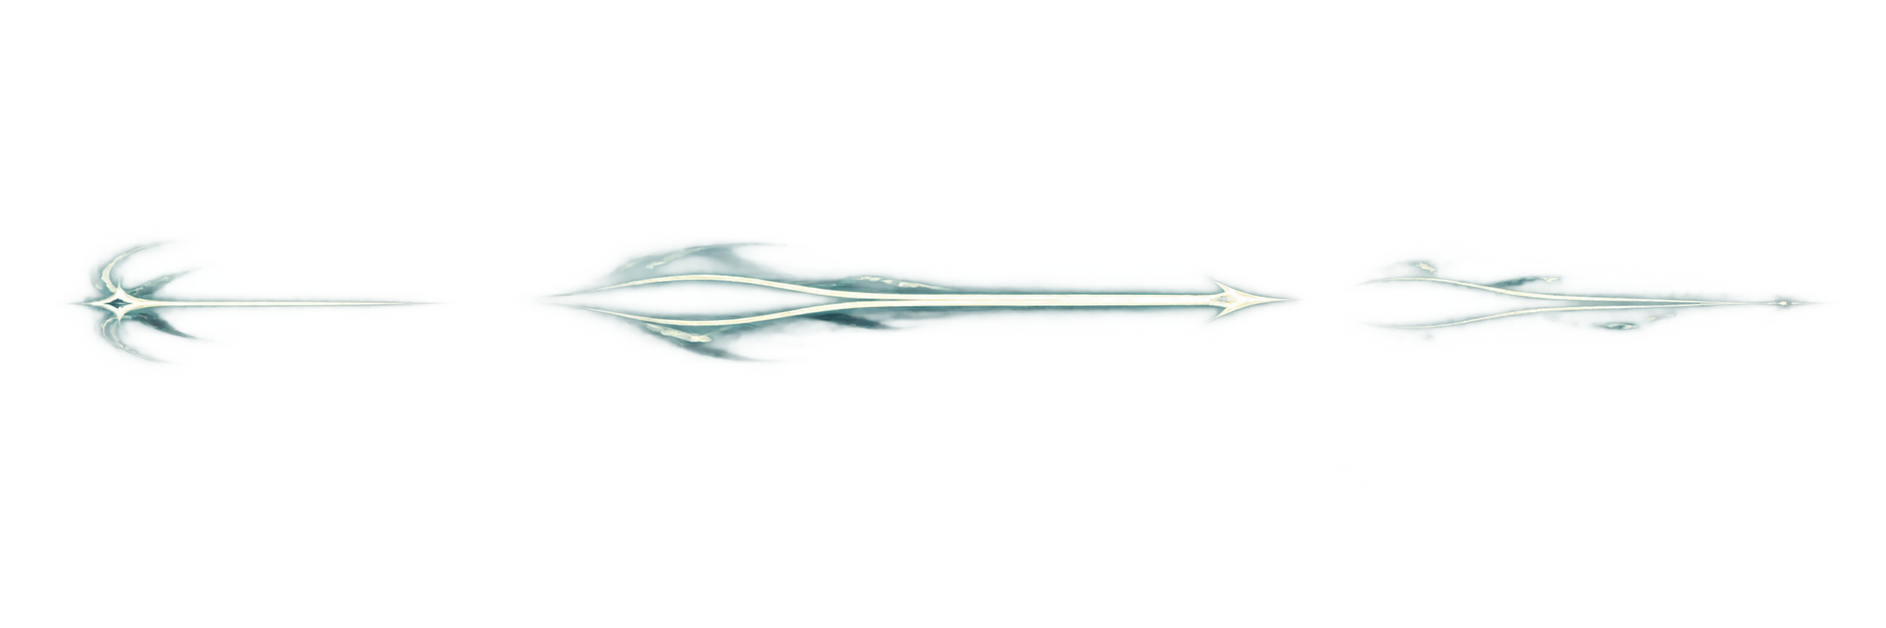
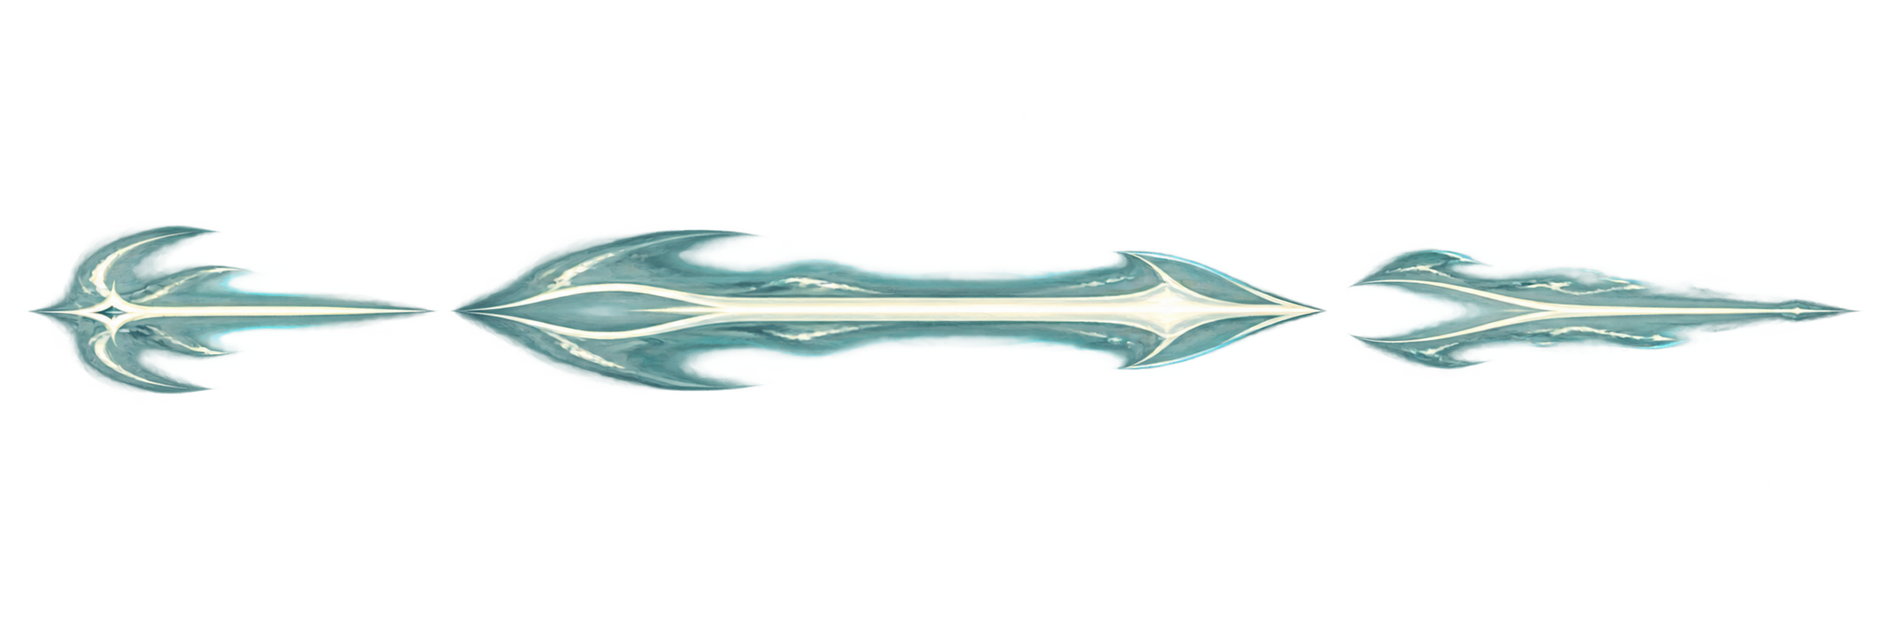
art(vfx): thicken Pierce spearhead and shaft in concept storyboards

Changed region(s): [[0.0, 0.3646, 0.7095, 0.6381], [0.7095, 0.395, 0.9871, 0.6077]]

diff --git a/docs/combat-presentation/blade-storyboards/boards.js b/docs/combat-presentation/blade-storyboards/boards.js
@@ -1,2 +1,2 @@
 /* global window */
-window.bladeStoryboards = [{"skill": "attack", "thai": "ฟันเฉียงสั้น", "identity": "คมกระชับหนึ่งครั้ง ปลายเรียวและเว้นกลางโปร่ง", "width": 84, "height": 76, "axial": false, "source": "../../../incoming/ART-VFX-BLADE-STORYBOARD-001/source/attack.png", "background": "../../../incoming/ART-VFX-BLADE-STORYBOARD-001/reference/attack-390.png", "sourceSize": [2172, 724], "alphaRange": [0, 255], "frames": [[226, 221, 297, 222], [783, 110, 595, 500], [1592, 234, 433, 317]], "anchors": {"source": {"x": 145.85999999999999, "y": 232.72, "size": 111}, "target": {"x": 244.14000000000001, "y": 373.32, "size": 166}, "recipient": "f1"}}, {"skill": "finisher", "thai": "ฟันกดปิดงาน", "identity": "ตะขอคมยาวกดลง เน้นปลายคมโดยไม่ใช้ X-slash", "width": 88, "height": 110, "axial": false, "source": "../../../incoming/ART-VFX-BLADE-STORYBOARD-001/source/finisher.png", "background": "../../../incoming/ART-VFX-BLADE-STORYBOARD-001/reference/finisher-390.png", "sourceSize": [2172, 724], "alphaRange": [0, 255], "frames": [[325, 47, 184, 641], [817, 35, 616, 655], [1664, 49, 422, 623]], "anchors": {"source": {"x": 145.85999999999999, "y": 232.72, "size": 111}, "target": {"x": 244.14000000000001, "y": 373.32, "size": 166}, "recipient": "f1"}}, {"skill": "lunge", "thai": "พุ่งตัด", "identity": "ปลายพุ่งกับร่องลมเปิดด้านหลัง ต่างจากเข็มตรงของ Pierce", "width": 116, "height": 62, "axial": true, "source": "../../../incoming/ART-VFX-BLADE-STORYBOARD-001/source/lunge.png", "background": "../../../incoming/ART-VFX-BLADE-STORYBOARD-001/reference/lunge-390.png", "sourceSize": [2172, 724], "alphaRange": [0, 255], "frames": [[39, 278, 542, 110], [662, 170, 852, 356], [1523, 226, 615, 182]], "anchors": {"source": {"x": 145.85999999999999, "y": 232.72, "size": 111}, "target": {"x": 244.14000000000001, "y": 373.32, "size": 166}, "recipient": "f1"}}, {"skill": "sweep", "thai": "ฟันกวาด", "identity": "เสี้ยวแบนทอดกว้างตามแนวนอน อ่านเป็นการกวาดครั้งเดียว", "width": 142, "height": 54, "axial": false, "source": "../../../incoming/ART-VFX-BLADE-STORYBOARD-001/source/sweep.png", "background": "../../../incoming/ART-VFX-BLADE-STORYBOARD-001/reference/sweep-390.png", "sourceSize": [2172, 724], "alphaRange": [0, 253], "frames": [[54, 312, 497, 111], [606, 253, 958, 252], [1622, 296, 520, 139]], "anchors": {"source": {"x": 145.85999999999999, "y": 232.72, "size": 111}, "target": {"x": 244.14000000000001, "y": 373.32, "size": 166}, "recipient": "f1"}}, {"skill": "backstab", "thai": "ลอบแทงย้อน", "identity": "ปลายสั้นเข้าจากด้านตรงข้าม พร้อมหางโค้งเยื้องเล็กน้อย", "width": 76, "height": 46, "axial": true, "source": "../../../incoming/ART-VFX-BLADE-STORYBOARD-001/source/backstab.png", "background": "../../../incoming/ART-VFX-BLADE-STORYBOARD-001/reference/backstab-390.png", "sourceSize": [2172, 724], "alphaRange": [0, 255], "frames": [[152, 267, 345, 223], [690, 142, 755, 456], [1525, 232, 526, 345]], "anchors": {"source": {"x": 145.85999999999999, "y": 232.72, "size": 111}, "target": {"x": 244.14000000000001, "y": 373.32, "size": 166}, "recipient": "f1"}}, {"skill": "ambush", "thai": "ฟันเสยจู่โจม", "identity": "คมรูปตะขอเปิดพุ่งขึ้นจากล่าง เว้นช่องให้เห็นตัวเป้าหมาย", "width": 88, "height": 104, "axial": false, "source": "../../../incoming/ART-VFX-BLADE-STORYBOARD-001/source/ambush.png", "background": "../../../incoming/ART-VFX-BLADE-STORYBOARD-001/reference/ambush-390.png", "sourceSize": [2172, 724], "alphaRange": [0, 255], "frames": [[125, 261, 470, 386], [818, 29, 637, 659], [1692, 94, 313, 572]], "anchors": {"source": {"x": 145.85999999999999, "y": 232.72, "size": 111}, "target": {"x": 244.14000000000001, "y": 373.32, "size": 166}, "recipient": "f1"}}, {"skill": "disarm", "thai": "เกี่ยวปัดอาวุธ", "identity": "ตะขอเล็กหมุนเกี่ยวออก ไม่มีภาพอาวุธแตกหรือสถานะที่ไม่ได้เกิด", "width": 62, "height": 72, "axial": false, "source": "../../../incoming/ART-VFX-BLADE-STORYBOARD-001/source/disarm.png", "background": "../../../incoming/ART-VFX-BLADE-STORYBOARD-001/reference/disarm-390.png", "sourceSize": [2172, 724], "alphaRange": [0, 254], "frames": [[229, 242, 421, 287], [825, 86, 552, 511], [1656, 287, 419, 172]], "anchors": {"source": {"x": 145.85999999999999, "y": 232.72, "size": 111}, "target": {"x": 244.14000000000001, "y": 373.32, "size": 166}, "recipient": "f1"}}, {"skill": "parry", "thai": "ตั้งท่า → ฟันสวน", "identity": "กรอบรับเล็กที่ต้นทาง แล้วคมคืนกลับเมื่อมี counter จริงเท่านั้น", "width": 88, "height": 74, "axial": false, "source": "../../../incoming/ART-VFX-BLADE-STORYBOARD-001/source/parry.png", "background": "../../../incoming/ART-VFX-BLADE-STORYBOARD-001/reference/parry-390.png", "sourceSize": [2172, 724], "alphaRange": [0, 254], "frames": [[289, 133, 269, 436], [725, 92, 752, 485], [1619, 193, 420, 311]], "anchors": {"source": {"x": 145.85999999999999, "y": 232.72, "size": 111}, "target": {"x": 340.53000000000003, "y": 399.72, "size": 111}, "recipient": "b1"}}, {"skill": "pierce", "thai": "แทงทะลุแนว", "identity": "เข็มยาวตรงบางที่สุด มีเพียงเส้นนำทางร่วมแกนเดียว", "width": 130, "height": 32, "axial": true, "source": "../../../incoming/ART-VFX-BLADE-STORYBOARD-001/source/pierce.png", "background": "../../../incoming/ART-VFX-BLADE-STORYBOARD-001/reference/pierce-390.png", "sourceSize": [2172, 724], "alphaRange": [0, 252], "frames": [[80, 279, 419, 139], [631, 279, 866, 138], [1571, 299, 522, 93]], "anchors": {"source": {"x": 145.85999999999999, "y": 232.72, "size": 111}, "target": {"x": 244.14000000000001, "y": 373.32, "size": 166}, "recipient": "f1"}}, {"skill": "halt", "thai": "แทงหยุดแน่น", "identity": "ปลายสั้นฐานแน่นและริ้วเบนกลับ ไม่ใช้สัญลักษณ์บล็อก", "width": 74, "height": 62, "axial": true, "source": "../../../incoming/ART-VFX-BLADE-STORYBOARD-001/source/halt.png", "background": "../../../incoming/ART-VFX-BLADE-STORYBOARD-001/reference/halt-390.png", "sourceSize": [2172, 724], "alphaRange": [0, 253], "frames": [[200, 268, 327, 194], [777, 129, 613, 447], [1553, 262, 441, 226]], "anchors": {"source": {"x": 145.85999999999999, "y": 232.72, "size": 111}, "target": {"x": 244.14000000000001, "y": 373.32, "size": 166}, "recipient": "f1"}}];
+window.bladeStoryboards = [{"skill": "attack", "thai": "ฟันเฉียงสั้น", "identity": "คมกระชับหนึ่งครั้ง ปลายเรียวและเว้นกลางโปร่ง", "width": 84, "height": 76, "axial": false, "crossScale": 1, "source": "../../../incoming/ART-VFX-BLADE-STORYBOARD-001/source/attack.png", "background": "../../../incoming/ART-VFX-BLADE-STORYBOARD-001/reference/attack-390.png", "sourceSize": [2172, 724], "alphaRange": [0, 255], "frames": [[226, 221, 297, 222], [783, 110, 595, 500], [1592, 234, 433, 317]], "anchors": {"source": {"x": 145.85999999999999, "y": 232.72, "size": 111}, "target": {"x": 244.14000000000001, "y": 373.32, "size": 166}, "recipient": "f1"}}, {"skill": "finisher", "thai": "ฟันกดปิดงาน", "identity": "ตะขอคมยาวกดลง เน้นปลายคมโดยไม่ใช้ X-slash", "width": 88, "height": 110, "axial": false, "crossScale": 1, "source": "../../../incoming/ART-VFX-BLADE-STORYBOARD-001/source/finisher.png", "background": "../../../incoming/ART-VFX-BLADE-STORYBOARD-001/reference/finisher-390.png", "sourceSize": [2172, 724], "alphaRange": [0, 255], "frames": [[325, 47, 184, 641], [817, 35, 616, 655], [1664, 49, 422, 623]], "anchors": {"source": {"x": 145.85999999999999, "y": 232.72, "size": 111}, "target": {"x": 244.14000000000001, "y": 373.32, "size": 166}, "recipient": "f1"}}, {"skill": "lunge", "thai": "พุ่งตัด", "identity": "ปลายพุ่งกับร่องลมเปิดด้านหลัง ต่างจากแกนตรงและหัวหอกของ Pierce", "width": 116, "height": 62, "axial": true, "crossScale": 1, "source": "../../../incoming/ART-VFX-BLADE-STORYBOARD-001/source/lunge.png", "background": "../../../incoming/ART-VFX-BLADE-STORYBOARD-001/reference/lunge-390.png", "sourceSize": [2172, 724], "alphaRange": [0, 255], "frames": [[39, 278, 542, 110], [662, 170, 852, 356], [1523, 226, 615, 182]], "anchors": {"source": {"x": 145.85999999999999, "y": 232.72, "size": 111}, "target": {"x": 244.14000000000001, "y": 373.32, "size": 166}, "recipient": "f1"}}, {"skill": "sweep", "thai": "ฟันกวาด", "identity": "เสี้ยวแบนทอดกว้างตามแนวนอน อ่านเป็นการกวาดครั้งเดียว", "width": 142, "height": 54, "axial": false, "crossScale": 1, "source": "../../../incoming/ART-VFX-BLADE-STORYBOARD-001/source/sweep.png", "background": "../../../incoming/ART-VFX-BLADE-STORYBOARD-001/reference/sweep-390.png", "sourceSize": [2172, 724], "alphaRange": [0, 253], "frames": [[54, 312, 497, 111], [606, 253, 958, 252], [1622, 296, 520, 139]], "anchors": {"source": {"x": 145.85999999999999, "y": 232.72, "size": 111}, "target": {"x": 244.14000000000001, "y": 373.32, "size": 166}, "recipient": "f1"}}, {"skill": "backstab", "thai": "ลอบแทงย้อน", "identity": "ปลายสั้นเข้าจากด้านตรงข้าม พร้อมหางโค้งเยื้องเล็กน้อย", "width": 76, "height": 46, "axial": true, "crossScale": 1, "source": "../../../incoming/ART-VFX-BLADE-STORYBOARD-001/source/backstab.png", "background": "../../../incoming/ART-VFX-BLADE-STORYBOARD-001/reference/backstab-390.png", "sourceSize": [2172, 724], "alphaRange": [0, 255], "frames": [[152, 267, 345, 223], [690, 142, 755, 456], [1525, 232, 526, 345]], "anchors": {"source": {"x": 145.85999999999999, "y": 232.72, "size": 111}, "target": {"x": 244.14000000000001, "y": 373.32, "size": 166}, "recipient": "f1"}}, {"skill": "ambush", "thai": "ฟันเสยจู่โจม", "identity": "คมรูปตะขอเปิดพุ่งขึ้นจากล่าง เว้นช่องให้เห็นตัวเป้าหมาย", "width": 88, "height": 104, "axial": false, "crossScale": 1, "source": "../../../incoming/ART-VFX-BLADE-STORYBOARD-001/source/ambush.png", "background": "../../../incoming/ART-VFX-BLADE-STORYBOARD-001/reference/ambush-390.png", "sourceSize": [2172, 724], "alphaRange": [0, 255], "frames": [[125, 261, 470, 386], [818, 29, 637, 659], [1692, 94, 313, 572]], "anchors": {"source": {"x": 145.85999999999999, "y": 232.72, "size": 111}, "target": {"x": 244.14000000000001, "y": 373.32, "size": 166}, "recipient": "f1"}}, {"skill": "disarm", "thai": "เกี่ยวปัดอาวุธ", "identity": "ตะขอเล็กหมุนเกี่ยวออก ไม่มีภาพอาวุธแตกหรือสถานะที่ไม่ได้เกิด", "width": 62, "height": 72, "axial": false, "crossScale": 1, "source": "../../../incoming/ART-VFX-BLADE-STORYBOARD-001/source/disarm.png", "background": "../../../incoming/ART-VFX-BLADE-STORYBOARD-001/reference/disarm-390.png", "sourceSize": [2172, 724], "alphaRange": [0, 254], "frames": [[229, 242, 421, 287], [825, 86, 552, 511], [1656, 287, 419, 172]], "anchors": {"source": {"x": 145.85999999999999, "y": 232.72, "size": 111}, "target": {"x": 244.14000000000001, "y": 373.32, "size": 166}, "recipient": "f1"}}, {"skill": "parry", "thai": "ตั้งท่า → ฟันสวน", "identity": "กรอบรับเล็กที่ต้นทาง แล้วคมคืนกลับเมื่อมี counter จริงเท่านั้น", "width": 88, "height": 74, "axial": false, "crossScale": 1, "source": "../../../incoming/ART-VFX-BLADE-STORYBOARD-001/source/parry.png", "background": "../../../incoming/ART-VFX-BLADE-STORYBOARD-001/reference/parry-390.png", "sourceSize": [2172, 724], "alphaRange": [0, 254], "frames": [[289, 133, 269, 436], [725, 92, 752, 485], [1619, 193, 420, 311]], "anchors": {"source": {"x": 145.85999999999999, "y": 232.72, "size": 111}, "target": {"x": 340.53000000000003, "y": 399.72, "size": 111}, "recipient": "b1"}}, {"skill": "pierce", "thai": "แทงทะลุแนว", "identity": "หัวหอกใบยาวมีบ่าเด่น แกนแทงหนา อ่านเป็นหอกที่พุ่งตามแกนเดียว", "width": 130, "height": 58, "axial": true, "crossScale": 1.4, "source": "../../../incoming/ART-VFX-BLADE-STORYBOARD-001/source/pierce.png", "background": "../../../incoming/ART-VFX-BLADE-STORYBOARD-001/reference/pierce-390.png", "sourceSize": [2172, 724], "alphaRange": [0, 254], "frames": [[33, 260, 506, 194], [539, 264, 989, 187], [1554, 286, 588, 140]], "anchors": {"source": {"x": 145.85999999999999, "y": 232.72, "size": 111}, "target": {"x": 244.14000000000001, "y": 373.32, "size": 166}, "recipient": "f1"}}, {"skill": "halt", "thai": "แทงหยุดแน่น", "identity": "ปลายสั้นฐานแน่นและริ้วเบนกลับ ไม่ใช้สัญลักษณ์บล็อก", "width": 74, "height": 62, "axial": true, "crossScale": 1, "source": "../../../incoming/ART-VFX-BLADE-STORYBOARD-001/source/halt.png", "background": "../../../incoming/ART-VFX-BLADE-STORYBOARD-001/reference/halt-390.png", "sourceSize": [2172, 724], "alphaRange": [0, 253], "frames": [[200, 268, 327, 194], [777, 129, 613, 447], [1553, 262, 441, 226]], "anchors": {"source": {"x": 145.85999999999999, "y": 232.72, "size": 111}, "target": {"x": 244.14000000000001, "y": 373.32, "size": 166}, "recipient": "f1"}}];

diff --git a/docs/combat-presentation/blade-storyboards/viewer.js b/docs/combat-presentation/blade-storyboards/viewer.js
@@ -5,7 +5,7 @@ const images = new Map();
 const loadImage = src => new Promise((resolve, reject) => {
   const img = new Image(); img.onload = () => resolve(img); img.onerror = () => reject(new Error(`Missing image: ${src}`)); img.src = src;
 });
-let selected = records[0], visible = true;
+let selected = records.find(record => record.skill === window.location.hash.slice(1)) ?? records[0], visible = true;
 const weight = document.querySelector('#weight');
 const canvases = [...document.querySelectorAll('canvas')];
 function draw() {
@@ -21,11 +21,12 @@ function draw() {
     if (!visible) return;
     const [sx,sy,sw,sh] = selected.frames[phase];
     const multiplier = [0.36,1,0.76][phase];
-    const fit = Math.min(selected.width/sw, selected.height/sh) * multiplier;
+    const crossScale = selected.crossScale ?? 1;
+    const fit = Math.min(selected.width/sw, selected.height/(sh*crossScale)) * multiplier;
     const at = phase === 0 ? source : target;
     ctx.save(); ctx.translate(at.x, at.y); ctx.rotate(angle);
     ctx.globalAlpha = [.65,.88,.32][phase] * Number(weight.value)/100;
-    ctx.drawImage(images.get(selected.source), sx,sy,sw,sh, -sw*fit/2,-sh*fit/2,sw*fit,sh*fit);
+    ctx.drawImage(images.get(selected.source), sx,sy,sw,sh, -sw*fit/2,-sh*fit*crossScale/2,sw*fit,sh*fit*crossScale);
     ctx.restore();
   });
   document.documentElement.dataset.skill = selected.skill;
@@ -34,7 +35,7 @@ async function start() {
   await Promise.all([...new Set(records.flatMap(r => [r.source,r.background]))].map(async src => images.set(src, await loadImage(src))));
   for (const record of records) {
     const button = document.createElement('button'); button.textContent = record.skill; button.dataset.skill = record.skill;
-    button.addEventListener('click', () => { selected=record; draw(); }); document.querySelector('nav').append(button);
+    button.addEventListener('click', () => { selected=record; window.history.replaceState(null,'',`#${record.skill}`); draw(); }); document.querySelector('nav').append(button);
   }
   weight.addEventListener('input',draw);
   document.querySelector('#toggle').addEventListener('click', event => { visible=!visible; event.target.textContent=visible?'ดูสนามเปล่า':'แสดงแบบ VFX'; draw(); });

diff --git a/tests/browser/blade-storyboards.spec.ts b/tests/browser/blade-storyboards.spec.ts
@@ -26,13 +26,13 @@ test('capture immutable 390px game references and resolved anchors', async ({ br
   }
   writeFileSync(path.join(out, 'anchors.json'), JSON.stringify(anchors, null, 2) + '\n');
 });
-test('render ten three-phase concept boards at native 390px', async ({ page }) => {
+test('render three-phase concept boards at native 390px', async ({ page }) => {
   test.skip(process.env.FX_STORYBOARDS !== 'render');
   const errors: string[] = []; page.on('pageerror', e => errors.push(e.message));
   await page.setViewportSize({ width: 1234, height: 1060 });
   await page.goto('docs/combat-presentation/blade-storyboards/index.html');
   await page.waitForFunction(() => document.documentElement.dataset.ready === 'true');
-  for (const skill of skills) {
+  for (const skill of skills.filter(s => !process.env.FX_STORYBOARD_SKILL || process.env.FX_STORYBOARD_SKILL === s)) {
     await page.locator(`button[data-skill="${skill}"]`).click();
     await page.waitForFunction(s => document.documentElement.dataset.skill === s, skill);
     const board = page.locator('#board');

diff --git a/docs/combat-presentation/blade-storyboards/build_manifest.py b/docs/combat-presentation/blade-storyboards/build_manifest.py
@@ -10,13 +10,13 @@ anchors = json.loads((art / 'reference/anchors.json').read_text())
 specs = [
     ('ฟันเฉียงสั้น', 'คมกระชับหนึ่งครั้ง ปลายเรียวและเว้นกลางโปร่ง', 84, 76, False),
     ('ฟันกดปิดงาน', 'ตะขอคมยาวกดลง เน้นปลายคมโดยไม่ใช้ X-slash', 88, 110, False),
-    ('พุ่งตัด', 'ปลายพุ่งกับร่องลมเปิดด้านหลัง ต่างจากเข็มตรงของ Pierce', 116, 62, True),
+    ('พุ่งตัด', 'ปลายพุ่งกับร่องลมเปิดด้านหลัง ต่างจากแกนตรงและหัวหอกของ Pierce', 116, 62, True),
     ('ฟันกวาด', 'เสี้ยวแบนทอดกว้างตามแนวนอน อ่านเป็นการกวาดครั้งเดียว', 142, 54, False),
     ('ลอบแทงย้อน', 'ปลายสั้นเข้าจากด้านตรงข้าม พร้อมหางโค้งเยื้องเล็กน้อย', 76, 46, True),
     ('ฟันเสยจู่โจม', 'คมรูปตะขอเปิดพุ่งขึ้นจากล่าง เว้นช่องให้เห็นตัวเป้าหมาย', 88, 104, False),
     ('เกี่ยวปัดอาวุธ', 'ตะขอเล็กหมุนเกี่ยวออก ไม่มีภาพอาวุธแตกหรือสถานะที่ไม่ได้เกิด', 62, 72, False),
     ('ตั้งท่า → ฟันสวน', 'กรอบรับเล็กที่ต้นทาง แล้วคมคืนกลับเมื่อมี counter จริงเท่านั้น', 88, 74, False),
-    ('แทงทะลุแนว', 'เข็มยาวตรงบางที่สุด มีเพียงเส้นนำทางร่วมแกนเดียว', 130, 32, True),
+    ('แทงทะลุแนว', 'หัวหอกใบยาวมีบ่าเด่น แกนแทงหนา อ่านเป็นหอกที่พุ่งตามแกนเดียว', 130, 58, True),
     ('แทงหยุดแน่น', 'ปลายสั้นฐานแน่นและริ้วเบนกลับ ไม่ใช้สัญลักษณ์บล็อก', 74, 62, True),
 ]
 records = []
@@ -42,7 +42,7 @@ for name, (thai, identity, w, h, axial) in zip(names, specs):
         assert box, (name, 'empty phase')
         x0, y0, x1, y1 = box
         frames.append([left+x0, y0, x1-x0, y1-y0])
-    record = dict(skill=name, thai=thai, identity=identity, width=w, height=h, axial=axial,
+    record = dict(skill=name, thai=thai, identity=identity, width=w, height=h, axial=axial, crossScale=1.4 if name == 'pierce' else 1,
                   source=f'../../../incoming/ART-VFX-BLADE-STORYBOARD-001/source/{name}.png',
                   background=f'../../../incoming/ART-VFX-BLADE-STORYBOARD-001/reference/{name}-390.png',
                   sourceSize=list(im.size), alphaRange=list(a.getextrema()), frames=frames, anchors=anchors[name])

diff --git a/docs/combat-presentation/blade-storyboards/README_TH.md b/docs/combat-presentation/blade-storyboards/README_TH.md
@@ -6,6 +6,8 @@
 
 เปิด [หน้าพรีวิวเลือกท่าและปรับน้ำหนัก](index.html) เลือกท่าด้านบน ใช้ “ดูสนามเปล่า” เทียบการบังตัวละคร และปรับน้ำหนัก 60–110% ได้ ค่าแบบเสนอคือ 100% (ภายในภาพปะทะใช้ alpha .88) ปุ่มคืนค่ากลับมาแบบเสนอ หน้าพรีวิวอ่านไฟล์ภาพอย่างเดียว ไม่เรียก resolver และไม่เขียนเซฟ เปิดผ่านเซิร์ฟเวอร์ Vite ของโครงการหรือเปิดไฟล์ HTML ใน browser ได้
 
+ปรับ Pierce R2 ตาม feedback วันที่ 25 ตุลาคม: แก้ภาพทั้ง 3 จังหวะให้แกนแทงแน่นขึ้นและมีหัวหอกทรงใบยาวที่เห็นบ่าชัด แทนความเรียวแบบลูกธนู ขยายหน้าตัดในแบบวาง 1.4 เท่าและเพิ่มกรอบสูงจาก 32 เป็น 58px โดยความยาวเสนอคง 130px ต้นฉบับ V1 เก็บใน `archive/pierce-v1.png`; prompt แก้ไขเต็มอยู่ใน [pierce-r2.json](../../../incoming/ART-VFX-BLADE-STORYBOARD-001/pierce-r2.json) ปรับเฉพาะแบบภาพ ยังไม่เปลี่ยน runtime
+
 ## งานภาพ
 
 | ท่า | รูปทรงเฉพาะ | Storyboard 3 ช่อง | ปะทะ 390px |
@@ -18,7 +20,7 @@
 | Ambush | ตะขอฟันเสยขึ้นจากล่าง ช่องกลางเปิด | [ภาพ](ambush-board.png) | [ภาพ](ambush-contact-390.png) |
 | Disarm | ตะขอเล็กเกี่ยวออก ไม่ทำภาพอาวุธแตก | [ภาพ](disarm-board.png) | [ภาพ](disarm-contact-390.png) |
 | Parry | วงเล็บรับเล็ก → คมฟันคืนกลับ | [ภาพ](parry-board.png) | [ภาพ](parry-contact-390.png) |
-| Pierce | เข็มยาวตรงบางที่สุด ริ้วตามแกนเดียว | [ภาพ](pierce-board.png) | [ภาพ](pierce-contact-390.png) |
+| Pierce R2 | หัวหอกใบยาวมีบ่าเด่น แกนหนาขึ้น ริ้วตามแกนเดียว | [ภาพ](pierce-board.png) | [ภาพ](pierce-contact-390.png) |
 | Halt | ปลายสั้นฐานแน่น ริ้วเบนกลับ | [ภาพ](halt-board.png) | [ภาพ](halt-contact-390.png) |
 
 คุมสีตามตระกูล icon: นักดาบ ivory/rose, หน่วยสอดแนม steel blue/slate, ทวน ivory/teal ใช้ชั้นสีโปร่งและแกนคมขนาดเล็ก ไม่มี full-screen flash, X-slash หรืออนุภาคจำนวนมาก จุดเตรียมอยู่ที่ผู้ใช้และปะทะอยู่ที่ผู้รับจริงจาก event ของ fixture; Parry ใช้ผู้รับของ counter จริง ไม่แสดงการสวนในจังหวะตั้งท่า

diff --git a/docs/handoffs/NEW-CHAT-HANDOFF-TH.md b/docs/handoffs/NEW-CHAT-HANDOFF-TH.md
@@ -1,5 +1,7 @@
 # ส่งต่องานให้แชตใหม่ (Claude) — อัปเดต 2026-10-22 หลัง A10 สมดุลรอบเล็ก (เซฟ v37)
 
+อัปเดต Pierce R2 2026-10-25: เจ้าของให้หัวหอก/แกนแทงหนาขึ้นเพราะ V1 ดูเหมือนธนู แก้ภาพครบ 3 จังหวะและหน้าพรีวิว #pierce แล้ว ยังเป็น concept ไม่ใช่ runtime; ดูบันทึกบนสุด CODEX-TO-CLAUDE.md
+
 อัปเดต 2026-10-25: เจ้าของอนุมัติทำ artwork เฉพาะฟัน/แทงทั้ง 10 ท่าก่อนแก้ runtime ต่อ สร้าง storyboard V1 ครบ 30 จังหวะด้วย ImageGen (เจ้าของอนุญาตแทน Shado ที่เชื่อมต่อไม่ได้) ดู `docs/combat-presentation/blade-storyboards/README_TH.md` และหน้าพรีวิวเลือกท่า/ปรับน้ำหนักในโฟลเดอร์เดียวกัน ส่งใน PR #59 เดิม **รอเจ้าของตรวจแบบภาพ ยังไม่ต่อภาพชุดใหม่นี้เข้าเกม ไม่ merge/publish และไม่เริ่ม C5.2**
 
 อัปเดต Codex 2026-10-24: C5.1 R3 บน `codex/vfx-family-1-blade`, PR #59 ปรับฟัน/แทงทั้ง 10 สกิลหลังเจ้าของเห็นว่า R2 หนาและคล้ายกัน ใช้ atlas เดิม ลดความทึบ/ความหนา และแยกสัดส่วนกับการเคลื่อนแต่ละท่า รวมฐาน C11 ล่าสุด 1a50c01 แล้ว รอเจ้าของตรวจ [คลิปใหม่ 390px](../combat-presentation/blade-slice/README_TH.md) ยังไม่ merge/publish และห้ามเริ่ม C5.2 จนเจ้าของอนุมัติคลิป อ่านบันทึกบนสุด `CODEX-TO-CLAUDE.md` และผลตรวจใน slice notes ก่อนทำต่อ

diff --git a/docs/handoffs/CODEX-TO-CLAUDE.md b/docs/handoffs/CODEX-TO-CLAUDE.md
@@ -1,5 +1,12 @@
 # Codex → Claude handoff
 
+## 2026-10-25 — Pierce artwork R2: thicker spear (PR #59)
+
+- Owner feedback: Pierce is so slim that it reads as an arrow. Revised only Pierce's three-phase concept strip with built-in ImageGen (standing owner approval to use ImageGen instead of unavailable Shado).
+- Source `incoming/ART-VFX-BLADE-STORYBOARD-001/source/pierce.png`: stronger luminous axial shaft and broader elongated spearhead/shoulders, same ivory/teal palette, real transparency, 2172×724. Preserved V1 under archive/pierce-v1.png and exact edit prompt in pierce-r2.json.
+- Storyboard layout keeps 130px length, increases cross-axis weight by 1.4 and height cap 32→58px. Replaced only Pierce's 1170×950 board and 390×844 contact image; other nine artwork files and production VFX remain unchanged. Viewer supports a #pierce deep link; capture workflow accepts FX_STORYBOARD_SKILL for targeted exports.
+- Validation: visually inspected the edited source and 390px contact; targeted browser render/control check passed (1 test; reference mode intentionally skipped). Typecheck/lint/build passed; dimensions verified at 2172×724 source, 1170×950 board and 390×844 contact. No gameplay/source/save/timing changes; no new unit/battle suite needed for this concept revision. Same branch codex/vfx-family-1-blade and PR #59, not merged/published. Owner review still pending; no family 2.
+
 ## 2026-10-25 — C5.1 individual artwork/storyboards V1 (PR #59, pending owner review)
 
 - Owner approved making artwork per move before another VFX implementation pass. Scope is the same ten blade-family skills, not family 2. Shado status still returned AI Link port busy 10048; owner explicitly approved built-in ImageGen instead. Ten original generations, no external API/CLI/provider key, no security-software changes.

diff --git a/docs/handoffs/CLAUDE-TO-CODEX-DEV-TH.md b/docs/handoffs/CLAUDE-TO-CODEX-DEV-TH.md
@@ -58,7 +58,7 @@ Read AGENTS.md and CLAUDE.md first. Repository wnau34-nptrn/asterveil-fateweave,
 
 | ลำดับ | ตระกูล | สกิล |
 |---|---|---|
-| 1 | ~~ฟันดาบ/แทง~~ ส่ง R3 และ artwork/storyboard V1 แยก 10 ท่า (2026-10-25, [แบบภาพ](../combat-presentation/blade-storyboards/README_TH.md)) **รอเจ้าของตรวจคลิปใหม่ ยังไม่อนุมัติ** (`codex/vfx-family-1-blade`, PR #59, [คลิป](../combat-presentation/blade-slice/README_TH.md)) | attack, finisher, lunge, sweep, backstab, ambush, disarm, parry (ฟันสวน), pierce, halt |
+| 1 | ~~ฟันดาบ/แทง~~ ส่ง R3 และ artwork/storyboard V1 แยก 10 ท่า (Pierce R2 หอกหนาขึ้นตาม feedback 2026-10-25, [แบบภาพ](../combat-presentation/blade-storyboards/README_TH.md)) **รอเจ้าของตรวจคลิปใหม่ ยังไม่อนุมัติ** (`codex/vfx-family-1-blade`, PR #59, [คลิป](../combat-presentation/blade-slice/README_TH.md)) | attack, finisher, lunge, sweep, backstab, ambush, disarm, parry (ฟันสวน), pierce, halt |
 | 2 | โล่/ป้องกัน | guard, aegis, rally, bulwark, stonearmor, guardstone, halo, sanctuary, brace, spearwall, hold |
 | 3 | แสงรักษา | heal, prayer, rouse, revive, bless, mend (เพลงฟื้น) |
 | 4 | ลูกธนู/มีดบิน | hinder, volley, weakshot, pin, track, disengage, knives |

diff --git a/incoming/ART-VFX-BLADE-STORYBOARD-001/NOTES.md b/incoming/ART-VFX-BLADE-STORYBOARD-001/NOTES.md
@@ -9,3 +9,5 @@ reference/ contains 390x844 game screenshots captured by tests/browser/blade-sto
 Browser canvas lays out the generated artwork without repainting characters, interface or scenery. build_manifest.py only analyzes existing source alpha, dimensions and per-phase regions, and writes metadata. Browser screenshots produce docs/combat-presentation/blade-storyboards/*-board.png and *-contact-390.png. Read README_TH.md there for scope and owner review.
 
 No production source, gameplay, rule, save, balance, timing, Bolt/Execute/Ward or family 2 work. The existing R3 family remains the runtime implementation. Concept approval and later real-motion clip approval are pending.
+
+Pierce R2 (2026-10-25): owner found the needle too arrow-like. Built-in ImageGen edited the existing transparent strip into a thicker axial spear with a broader elongated front blade. Original source retained in archive/pierce-v1.png; exact edit prompt/provenance in pierce-r2.json. Current source remains 2172x724 RGBA. The review layout retains 130px length, adds cross-axis factor 1.4 and raises its height cap from 32px to 58px. Re-exported only Pierce board/contact; other artwork and production assets are unchanged.
